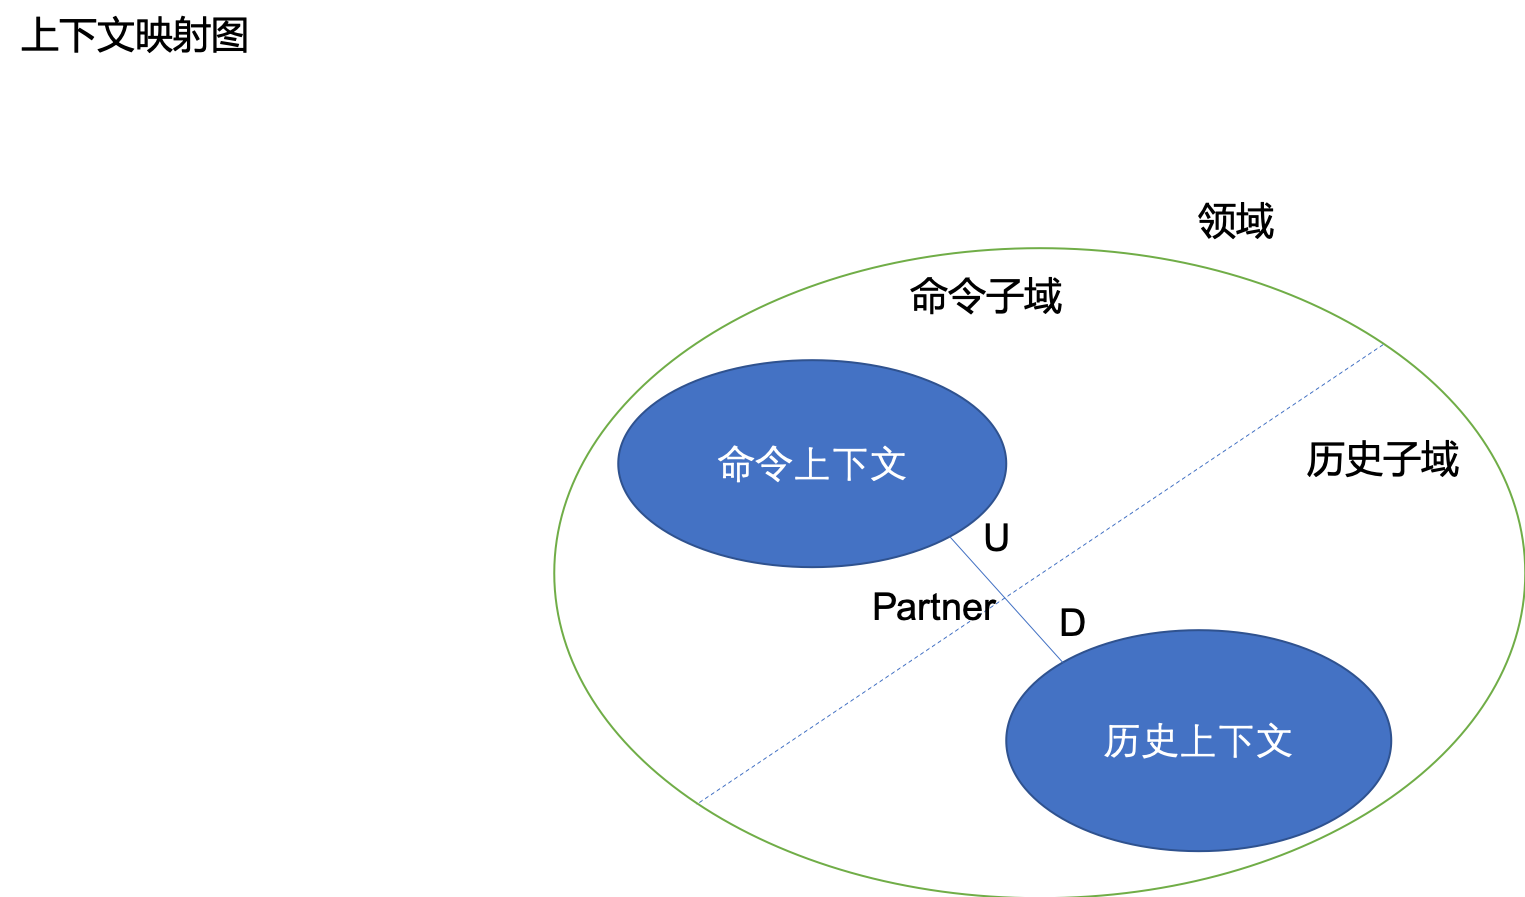
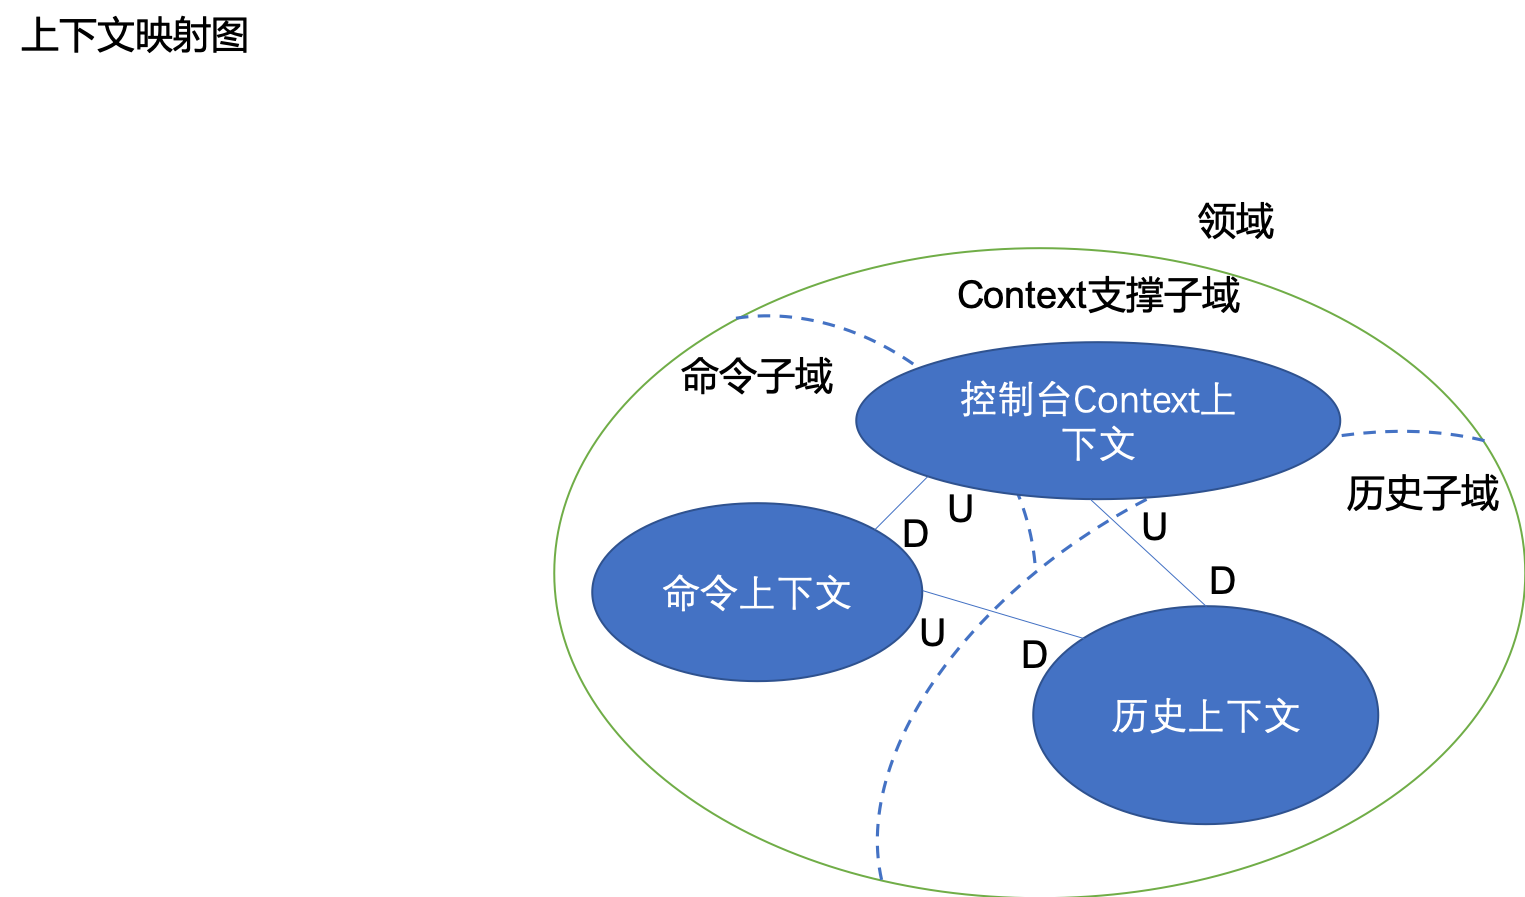
Add context support domain

Changed region(s): [[0.3698, 0.3746, 0.9862, 0.7804], [0.6472, 0.6243, 0.9246, 0.9677], [0.5856, 0.3122, 0.8321, 0.3434]]

diff --git a/jmore-console/README_zh.md b/jmore-console/README_zh.md
@@ -29,16 +29,17 @@
 
 ### 限界上下文
 
-![限界上下文](https://static.xuqiang.me/public/images/%E6%88%98%E7%95%A5%E8%AE%BE%E8%AE%A1%E2%80%94%E2%80%94%E9%99%90%E7%95%8C%E4%B8%8A%E4%B8%8B%E6%96%87.png)
+![限界上下文](https://static.xuqiang.me/public/images/%E6%88%98%E7%95%A5%E8%AE%BE%E8%AE%A1%E2%80%94%E2%80%94%E9%99%90%E7%95%8C%E4%B8%8A%E4%B8%8B%E6%96%87-1.png)
 
 ### 上下文映射图
 
-![上下文映射图](https://static.xuqiang.me/public/images/%E6%88%98%E7%95%A5%E8%AE%BE%E8%AE%A1%E2%80%94%E2%80%94%E4%B8%8A%E4%B8%8B%E6%96%87%E6%98%A0%E5%B0%84%E5%9B%BE.png)
+![上下文映射图](https://static.xuqiang.me/public/images/%E6%88%98%E7%95%A5%E8%AE%BE%E8%AE%A1%E2%80%94%E2%80%94%E4%B8%8A%E4%B8%8B%E6%96%87%E6%98%A0%E5%B0%84%E5%9B%BE-1.png)
 
 ### 聚合跟
 
 * 命令
 * 历史
+* 上下文
 
 ### 实体
 
@@ -51,11 +52,15 @@
 * 批处理
 * 领域服务——命令解析器【将语义化命令转化为具现化命令以及执行者】
 
-#### 历史上下文
+#### 历史子域
 
 * 历史
 * 命令快照【值对象】
 * 回滚脚本【值对象】
+
+### 上下文支撑子域
+
+* 上下文
 
 ### 领域模型
 
